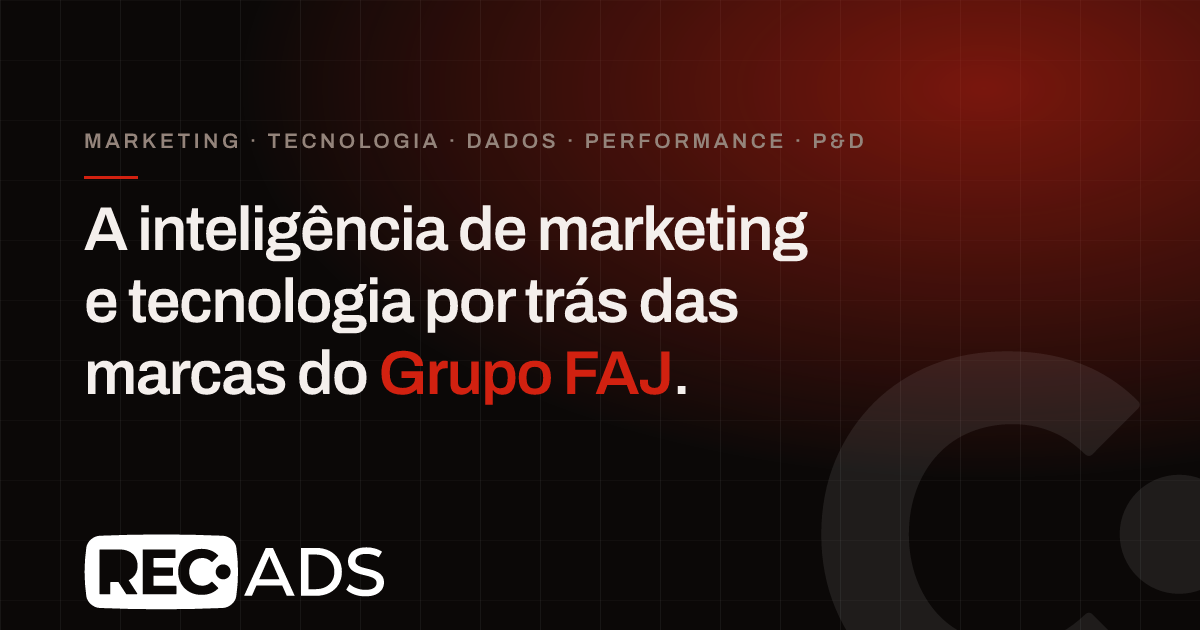
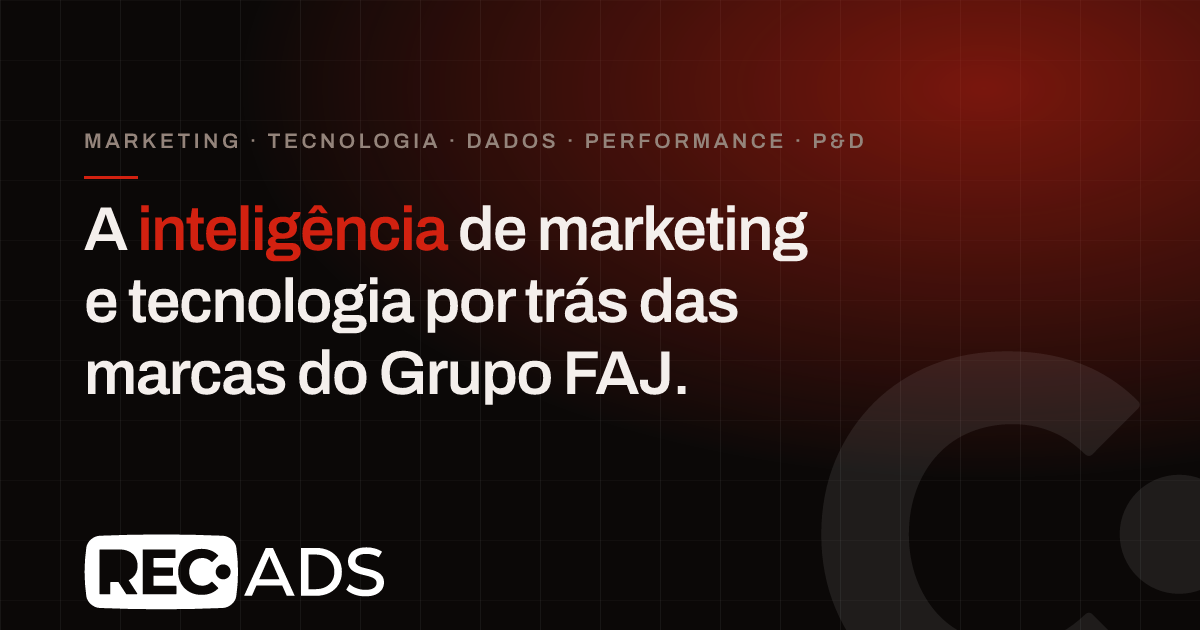
Contraste de peso no titulo do hero
Palavras de ligacao em light (300) e as que carregam a mensagem em bold (700):
inteligencia, marketing, tecnologia, marcas e Grupo FAJ. A Archivo e' variavel
com eixo 100-900 e a faixa inteira ja' era carregada, entao os dois pesos saem
do mesmo arquivo, sem requisicao extra.

max-width de 17ch para 19ch
A unidade ch mede a largura do "0", que no peso light e' mais estreito — manter
17ch encolhia a caixa e quebrava o titulo em 5 linhas. Com 19ch a composicao
volta as 4 linhas pretendidas: "A inteligencia de / marketing e tecnologia /
por tras das marcas / do Grupo FAJ."

Imagem de compartilhamento
Regerada com o vermelho em "inteligencia", igual ao site (antes caia em "Grupo
FAJ"). O contraste light/bold nao se aplica ali: o rasterizador nao instancia o
eixo de peso da fonte variavel e nao ha' arquivo estatico publicado para essa
familia. O texto fica em peso unico, o que e' aceitavel no tamanho de preview.

Changed region(s): [[0.0925, 0.3317, 0.37, 0.4222], [0.3083, 0.5429, 0.5858, 0.6333]]

diff --git a/docs/index.html b/docs/index.html
@@ -120,8 +120,14 @@
 
   <div class="wrap">
     <div class="hero__grid">
+      <!-- Contraste de peso: light nas palavras de ligacao, bold nas que
+           carregam a mensagem. Archivo e' variavel (100-900), entao os dois
+           pesos vem do mesmo arquivo ja' carregado. -->
       <h1 class="hero__title" data-split>
-        A <em class="hl" style="font-style: normal">inteligência</em> de marketing e tecnologia por trás das marcas do Grupo FAJ.
+        A <strong class="hl">inteligência</strong> de
+        <strong>marketing</strong> e <strong>tecnologia</strong>
+        por trás das <strong>marcas</strong>
+        do <strong>Grupo FAJ</strong>.
       </h1>
 
       <div style="display: grid; gap: var(--sp-4)">

diff --git a/docs/assets/css/style.css b/docs/assets/css/style.css
@@ -396,9 +396,16 @@ p { text-wrap: pretty; }
 .hero__title {
   font-size: var(--fs-4xl);
   font-stretch: 118%;
+  font-weight: 300;              /* ligacoes em light */
   line-height: var(--lh-tight);
-  max-width: 17ch;
+  /* 19ch, nao 17ch: a unidade ch mede a largura do "0", que no peso light e'
+     mais estreito — manter 17ch encolhia a caixa e quebrava o titulo em 5
+     linhas. Com 19ch a composicao volta a 4 linhas:
+       A inteligência de / marketing e tecnologia / por trás das marcas /
+       do Grupo FAJ. */
+  max-width: 19ch;
 }
+.hero__title strong { font-weight: 700; }  /* palavras que carregam a mensagem */
 .hero__lead {
   font-size: var(--fs-lg);
   color: var(--text-2);
